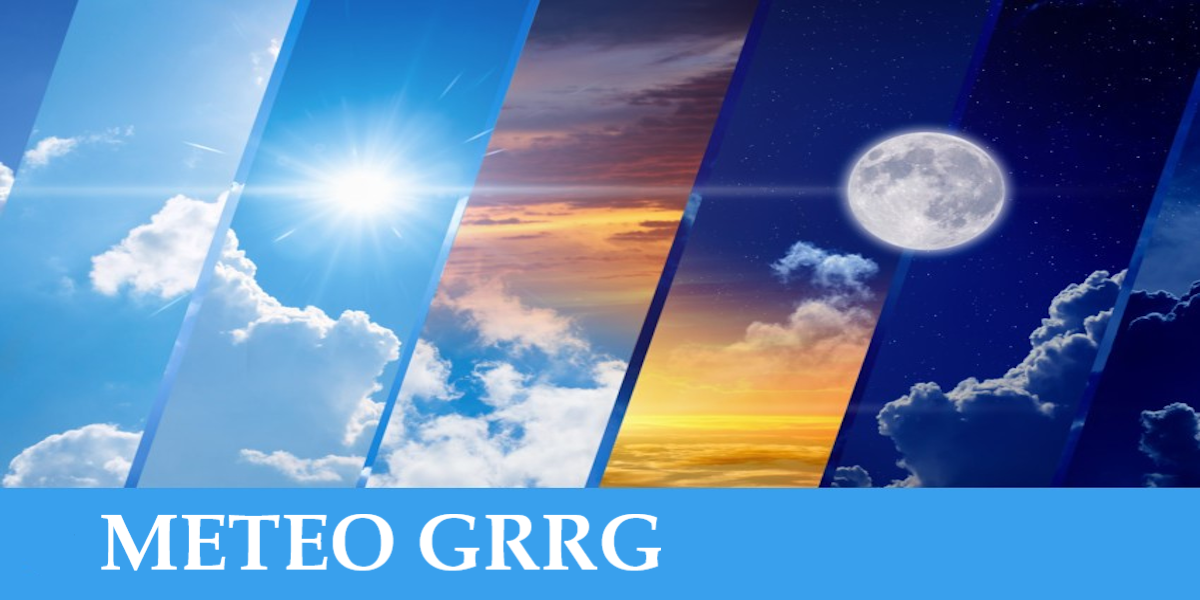
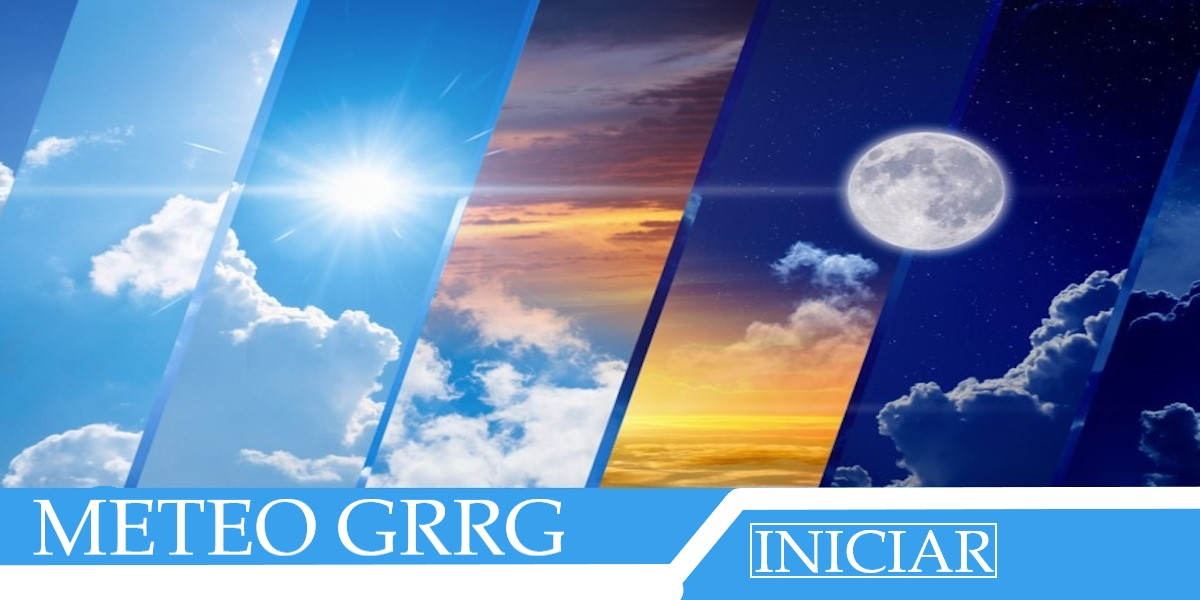
Subo mis ultimos cambios en el controlador, interfaz y en cielo.jpg

Changed region(s): [[0.0, 0.81, 1.0, 1.0]]

diff --git a/ProyectoWeather_GR/src/Vista/Interfaz.java b/ProyectoWeather_GR/src/Vista/Interfaz.java
@@ -121,15 +121,20 @@ public class Interfaz extends JFrame {
 		contentPane.add(panelinicio);
 		panelinicio.setLayout(null);
 		
-		JLabel lblNewLabel = new JLabel("");
-		lblNewLabel.setBounds(88, 0, 1094, 567);
-		lblNewLabel.setIcon(new ImageIcon("imagenes/cielo.jpg"));
-		panelinicio.add(lblNewLabel);
+		JLabel fotometeo = new JLabel("");
+		fotometeo.setBounds(88, 0, 1094, 567);
+		fotometeo.setIcon(new ImageIcon("imagenes/cielo.jpg"));
+		panelinicio.add(fotometeo);
 		
-		botoninicio = new JButton("ABRIR APP");
+		botoninicio = new JButton("");
 		botoninicio.setFont(new Font("Bahnschrift", Font.BOLD, 26));
-		botoninicio.setBackground(Color.BLUE);
+		botoninicio.setBackground(new Color(0, 0, 0));
 		botoninicio.setForeground(Color.WHITE);
+		botoninicio.setIconTextGap(0);
+		botoninicio.setBorderPainted(false);
+		botoninicio.setBorder(null);
+		botoninicio.setFocusPainted(false);
+		botoninicio.setContentAreaFilled(false);
 		botoninicio.setBounds(880, 474, 178, 85);
 		panelinicio.add(botoninicio);
 		
